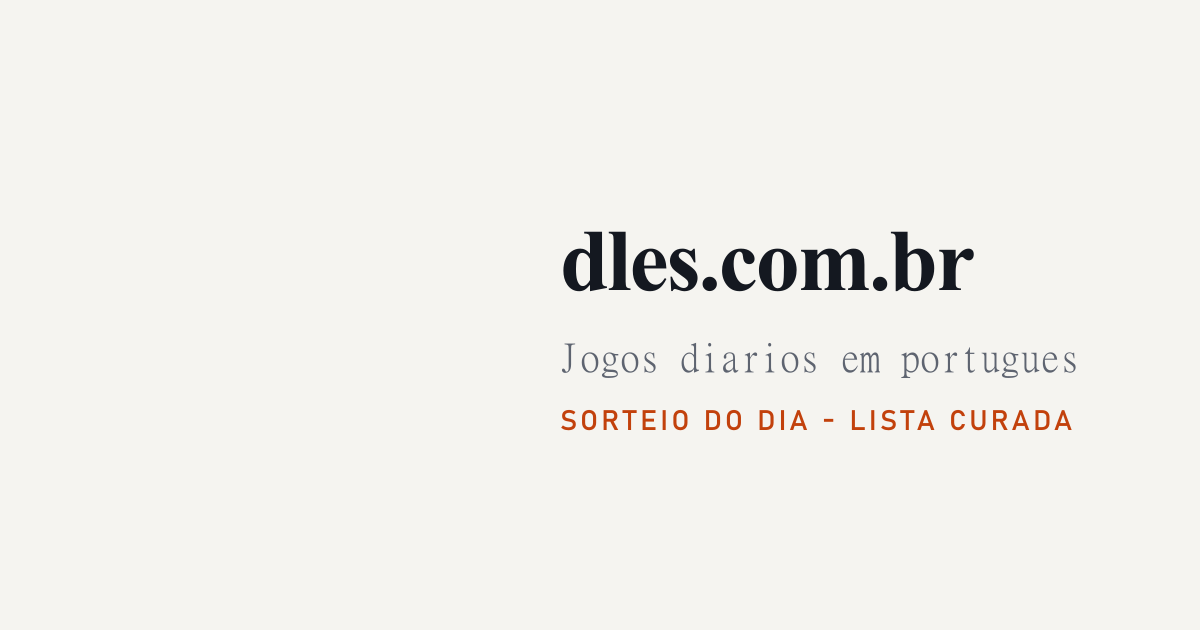
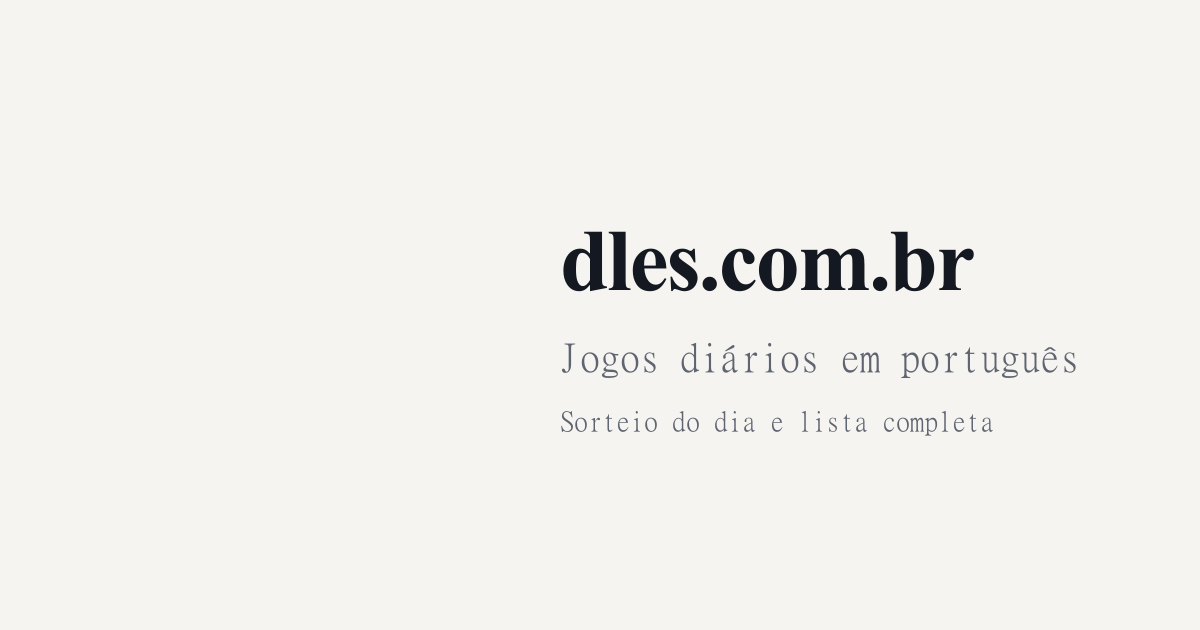
Enhance project configuration and update content
Added a new script command for link checking in package.json. Updated the OG image SVG with improved text descriptions and encoding. Modified various game descriptions in dles.json for clarity and consistency. Improved text content in DailyHero, SiteFooter, and other pages for better user engagement. Adjusted layout titles and descriptions for better SEO and user experience.

Changed region(s): [[0.4625, 0.6333, 0.8942, 0.6937], [0.5858, 0.573, 0.6167, 0.6032]]

diff --git a/src/lib/dle-icon.ts b/src/lib/dle-icon.ts
@@ -2,6 +2,21 @@ import type { Dle } from './types';
 
 export type DleIconKind = 'logo' | 'favicon';
 
+/** Favicons conhecidos por host (antes dos genéricos). */
+const SITE_FAVICONS: Record<string, string[]> = {
+  'term.ooo': ['/icon.png'],
+  'www.gabtoschi.com': [
+    '/letreco/favicon.ico',
+    '/letreco/icons/32x32.png',
+    '/letreco/icons/192x192.png',
+  ],
+  'letra.games': ['/favicon.ico'],
+  'worldle.teuteuf.fr': ['/logo192.png', '/img/favicon.144x144.png'],
+  'codedoku.app': ['/favicon-32x32.png', '/apple-touch-icon.png', '/favicon.ico'],
+  'sudoku.com': ['/favicon-32x32.png', '/apple-touch-icon.png', '/favicon-96x96.png'],
+  'drible.ee': ['/favicon.ico', '/favicon.png', '/apple-touch-icon.png'],
+};
+
 export function getDleInitial(name: string): string {
   return name.trim().charAt(0).toUpperCase() || '?';
 }
@@ -13,17 +28,29 @@ export function getFaviconCandidates(gameUrl: string): string[] {
   const dir =
     pathname.endsWith('/') ? pathname : pathname.replace(/\/[^/]*$/, '/') || '/';
 
-  const candidates = [
-    `https://icons.duckduckgo.com/ip3/${hostname}.ico`,
-    `${origin}/favicon.ico`,
-    `${origin}/favicon.png`,
-    `${origin}/icon.png`,
-    `${origin}/apple-touch-icon.png`,
-  ];
+  const candidates: string[] = [];
+
+  for (const path of SITE_FAVICONS[hostname] ?? []) {
+    candidates.push(`${origin}${path}`);
+  }
 
   if (dir !== '/') {
-    candidates.splice(1, 0, `${origin}${dir}favicon.ico`);
+    candidates.push(
+      `${origin}${dir}favicon.ico`,
+      `${origin}${dir}icons/32x32.png`,
+      `${origin}${dir}favicon-32x32.png`,
+    );
   }
+
+  candidates.push(
+    `${origin}/favicon.ico`,
+    `${origin}/favicon-32x32.png`,
+    `${origin}/favicon.png`,
+    `${origin}/apple-touch-icon.png`,
+    `${origin}/icon.png`,
+  );
+
+  candidates.push(`https://icons.duckduckgo.com/ip3/${hostname}.ico`);
 
   return [...new Set(candidates)];
 }

diff --git a/src/styles/global.css b/src/styles/global.css
@@ -418,14 +418,14 @@ input {
 
 .dle-tile__icon {
   display: none;
-  width: 1.55rem;
-  height: 1.55rem;
+  width: calc(100% - 0.35rem);
+  height: calc(100% - 0.35rem);
   object-fit: contain;
 }
 
 .daily-tile .dle-tile__icon {
-  width: 2.75rem;
-  height: 2.75rem;
+  width: calc(100% - 0.5rem);
+  height: calc(100% - 0.5rem);
 }
 
 .daily-tile .dle-tile__initial {
@@ -440,12 +440,19 @@ input {
   display: block;
 }
 
-/* Logo com fundo escuro (ex.: CodeDoku) — contraste no tile */
+/* Logo do criador: preenche o tile; favicon fica com respiro mínimo */
 .is-loaded .dle-tile__icon[data-icon-kind='logo'] {
-  background: #fff;
-  border-radius: 0.2rem;
-  padding: 0.1rem;
+  width: 100%;
+  height: 100%;
+  padding: 0.2rem;
   box-sizing: border-box;
+  background: var(--paper);
+  border-radius: calc(var(--radius-sm) - 2px);
+}
+
+.is-loaded .dle-tile__icon[data-icon-kind='favicon'] {
+  width: calc(100% - 0.5rem);
+  height: calc(100% - 0.5rem);
 }
 
 .dle-card__category {